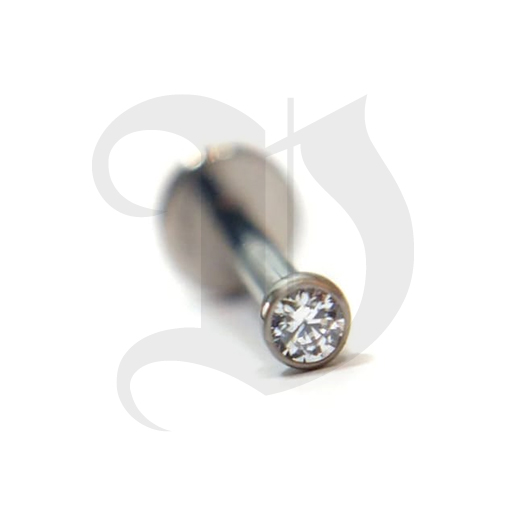
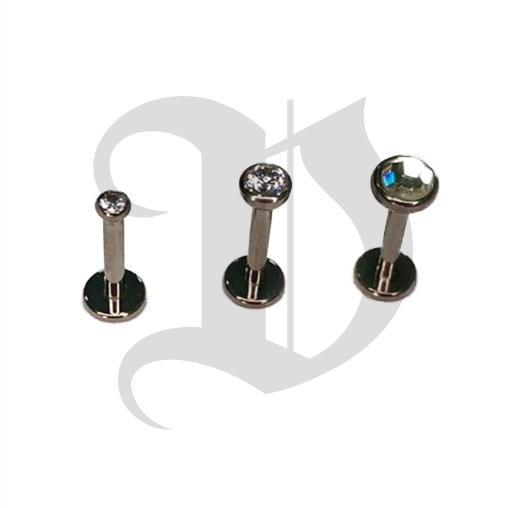
Atualização
Atualizando jóias

diff --git a/src/components/Piercings/Labret.ts b/src/components/Piercings/Labret.ts
@@ -1,27 +1,9 @@
 export const Labret= [
     {
-        index: 1,
-        name: 'Labret Garra Três Zircônias',
-        price: 70,
-        image: require('./piercingsmidia/1.jpg')
-    },
-    {
         id: 3,
         name: 'Labret Garra',
         price: 50,
         image: require('./piercingsmidia/3.jpg')
-    },
-    {
-        id: 8,
-        name: 'Labret Trinity',
-        price: 80,
-        image: require('./piercingsmidia/8.jpg')
-    },
-    {
-        id: 9,
-        name: 'Labret Gota',
-        price: 70,
-        image: require('./piercingsmidia/9.jpg')
     },
     {
         id: 11,
@@ -34,12 +16,6 @@ export const Labret= [
         name: 'Labret 6 Esferas',
         price: 70,
         image: require('./piercingsmidia/12.jpg')
-    },
-    {
-        id: 13,
-        name: 'Labret Triangulo',
-        price: 70,
-        image: require('./piercingsmidia/13.jpg')
     },
     {
         id: 14,
@@ -168,18 +144,6 @@ export const Labret= [
         image: require('./piercingsmidia/58.jpg')
     },
     {
-        id: 60,
-        name: 'Labret Flat (Modelo 2)',
-        price: 50,
-        image: require('./piercingsmidia/60.jpg')
-    },
-    {
-        id: 61,
-        name: 'Labret Cluster 3 Zircônia',
-        price: 80,
-        image: require('./piercingsmidia/61.jpg')
-    },
-    {
         id: 75,
         name: 'Labret 4 Zircônia 10 Esferas',
         price: 70,
@@ -196,12 +160,6 @@ export const Labret= [
         name: 'Labret Flor com Zircônia',
         price: 80,
         image: require('./piercingsmidia/79.jpg')
-    },
-    {
-        id: 81,
-        name: 'Labret Cluster 5 Zircônias',
-        price: 100,
-        image: require('./piercingsmidia/81.jpg')
     },
     {
         id: 84,

diff --git a/src/components/Piercings/BananaBell.ts b/src/components/Piercings/BananaBell.ts
@@ -12,12 +12,6 @@ export const BananaBell = [
         image: require('./piercingsmidia/6.jpg')
     },
     {
-        id: 59,
-        name: 'Banana Bell Flor',
-        price: 100,
-        image: require('./piercingsmidia/59.jpg')
-    },
-    {
         id: 64,
         name: 'Banana Bell Cruz',
         price: 100,
@@ -35,10 +29,5 @@ export const BananaBell = [
         price: 60,
         image: require('./piercingsmidia/74.jpg')
     },
-    {
-        id: 78,
-        name: 'Banana Bell Flor',
-        price: 100,
-        image: require('./piercingsmidia/78.jpg')
-    }
+    
 ];

diff --git a/src/components/Piercings/Argola.ts b/src/components/Piercings/Argola.ts
@@ -38,13 +38,13 @@ export const Argola = [
     {
         id: 26,
         name: 'Coração Cravejado Direito',
-        price: 90,
+        price: 80,
         image: require('./piercingsmidia/26.jpg')
     },
     {
         id: 27,
         name: 'Segmento Frontal Cravejado Duplo',
-        price: 90,
+        price: 80,
         image: require('./piercingsmidia/27.jpg')
     },
     {
@@ -76,11 +76,5 @@ export const Argola = [
         name: 'Segmento com Zircônia Ornamentada',
         price: 80,
         image: require('./piercingsmidia/62.jpg')
-    },
-    {
-        id: 82,
-        name: 'Segmento Entrelaçado com Zircônia',
-        price: 90,
-        image: require('./piercingsmidia/82.jpg')
     }
 ];